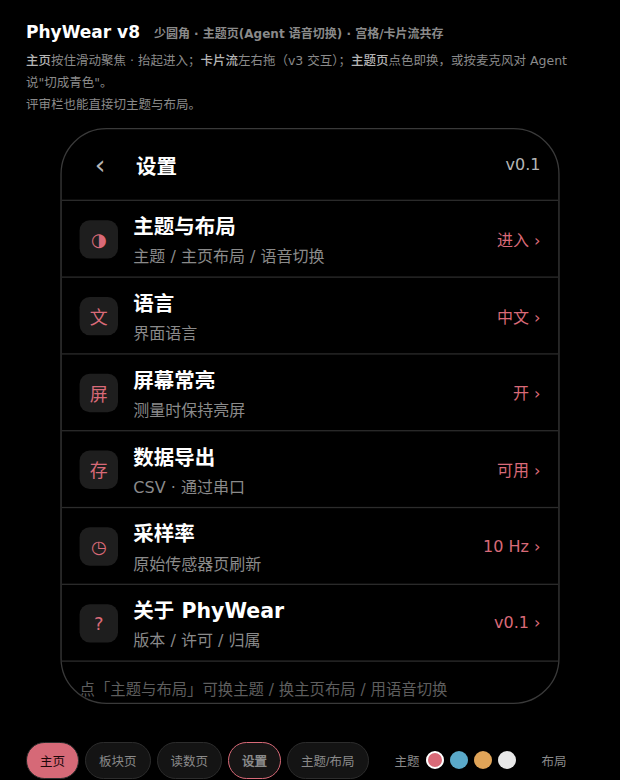
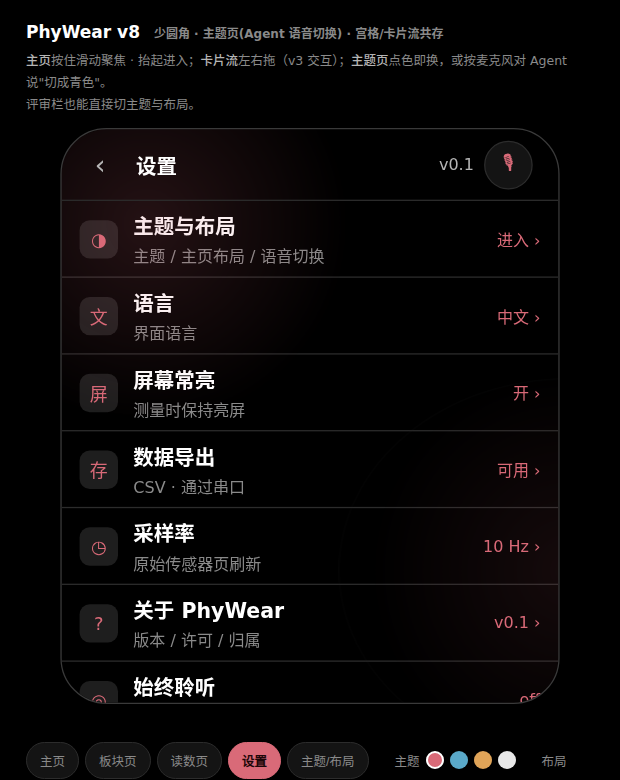
fix(ui): 全局麦克风压到文字 —— 右侧固定槽位（麦克风最右 20px，时间/副标题/⋯ 让到 66px）；始终聆听改麦克风角标

diff --git a/docs/design/phywear-v8-prototype.html b/docs/design/phywear-v8-prototype.html
@@ -65,25 +65,24 @@
   .bar{height:56px;display:flex;align-items:center;padding:0 20px 0 14px;   /* 右侧 20px：时间/⋯/版本号左移一点点 */position:relative;z-index:6;
        border-bottom:1px solid var(--line);transition:border-color .6s}
   .bar .id{font-size:19px;font-weight:700}
-  .bar .sub{position:absolute;right:20px;font-size:12.5px;color:var(--fg3)}
+  .bar .sub{position:absolute;right:66px;font-size:12.5px;color:var(--fg3)}   /* 让开右侧麦克风槽位 */
   .back{width:44px;height:44px;display:flex;align-items:center;justify-content:center;border-radius:var(--r-pill);
         color:var(--fg2);font-size:21px;margin-left:-6px}
   .back:active{background:var(--card2)}
   .bar .ttl{font-size:16px;font-weight:600;margin-left:6px}
-  .bar .t{position:absolute;right:20px;font-size:12.5px;color:var(--fg2);font-variant-numeric:tabular-nums}
+  .bar .t{position:absolute;right:66px;font-size:12.5px;color:var(--fg2);font-variant-numeric:tabular-nums}
   .mic{width:38px;height:38px;border-radius:var(--r-pill);border:1px solid var(--line);background:var(--card);
        color:var(--accent);display:flex;align-items:center;justify-content:center;font-size:15px}
   .mic.rec{background:var(--accent);color:var(--ink);border-color:var(--accent)}
-  .rgroup{margin-left:auto;display:flex;align-items:center;gap:8px}
+  .rgroup{margin-left:auto;display:flex;align-items:center;gap:8px;padding-right:46px}  /* ⋯ 也让开麦克风 */
   /* 全局语音：所有页顶栏同一个入口（不用进设置页） */
-  .gmic{position:absolute;right:52px;top:9px;width:38px;height:38px;border-radius:var(--r-pill);
+  .gmic{position:absolute;right:20px;top:9px;width:38px;height:38px;border-radius:var(--r-pill);
         border:1px solid var(--line);background:var(--card);color:var(--accent);
         display:flex;align-items:center;justify-content:center;font-size:15px;z-index:8}
   .gmic.rec{background:var(--accent);color:var(--ink);border-color:var(--accent)}
-  .lpill{position:absolute;left:14px;bottom:-1px;transform:translateY(100%);display:none;align-items:center;gap:6px;
-         font-size:11.5px;color:var(--accent);z-index:9}
-  .lpill.on{display:flex}
-  .lpill .d{width:7px;height:7px;border-radius:50%;background:var(--accent);animation:d1 1.2s ease-in-out infinite}
+  .lpill{display:none}                       /* 旧的一行字提示：废弃，改用麦克风角标 */
+  .gmic.listening::after{content:'';position:absolute;right:-3px;bottom:-3px;width:11px;height:11px;
+        border-radius:50%;background:var(--accent);border:2px solid var(--bg);animation:d1 1.2s ease-in-out infinite}
   .vpanel{position:absolute;left:14px;right:14px;bottom:16px;background:var(--card2);border:1px solid var(--line2);
           border-radius:16px;padding:12px 14px;z-index:60;display:none}
   .vpanel.on{display:block}
@@ -615,12 +614,9 @@ function startAlways(){
     try{ recAlways.start(); }catch(e){}
   };
   loop();
-  $$('.bar').forEach(b=>{ if(!b.querySelector('.lpill')){
-    const p=document.createElement('span'); p.className='lpill on';
-    p.innerHTML='<span class="d"></span>始终聆听';
-    b.appendChild(p); } });
+  $$('.gmic').forEach(m=>m.classList.add('listening'));      /* 角标小圆点=始终聆听中 */
 }
-function stopAlways(){ ALWAYS=false; try{ recAlways&&recAlways.stop(); }catch(e){} $$('.lpill').forEach(p=>p.classList.remove('on')); }
+function stopAlways(){ ALWAYS=false; try{ recAlways&&recAlways.stop(); }catch(e){} $$('.gmic').forEach(m=>m.classList.remove('listening')); }
 function startVoice(){
   const mic=$('#mic'); mic.classList.add('rec');
   $$('.gmic').forEach(m=>m.classList.add('rec')); showVoice();
